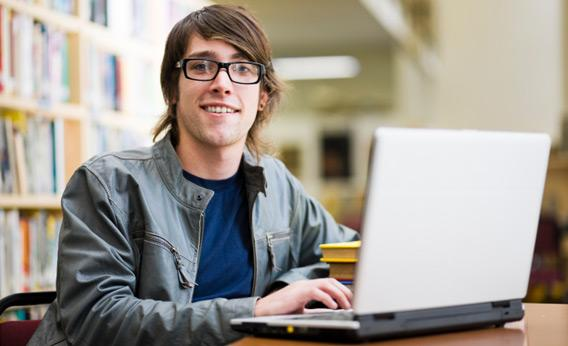
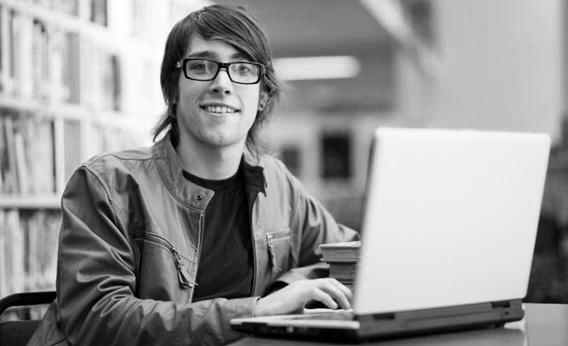
JL: updated btn-primary color to Harpuun navy blue, updated client and starter images

diff --git a/app/assets/stylesheets/bootstrap.css b/app/assets/stylesheets/bootstrap.css
@@ -939,7 +939,7 @@ legend {
   margin-bottom: 20px;
   font-size: 21px;
   line-height: 40px;
-  color: #1B315E;
+  color: #333333;
   border: 0;
   border-bottom: 1px solid #e5e5e5;
 }
@@ -3215,13 +3215,13 @@ input[type="button"].btn-block {
 .btn-primary {
   color: #ffffff;
   text-shadow: 0 -1px 0 rgba(0, 0, 0, 0.25);
-  background-color: #006dcc;
+  background-color: #1B315E;
   *background-color: #0044cc;
-  background-image: -moz-linear-gradient(top, #0088cc, #0044cc);
-  background-image: -webkit-gradient(linear, 0 0, 0 100%, from(#0088cc), to(#0044cc));
-  background-image: -webkit-linear-gradient(top, #0088cc, #0044cc);
-  background-image: -o-linear-gradient(top, #0088cc, #0044cc);
-  background-image: linear-gradient(to bottom, #0088cc, #0044cc);
+  background-image: -moz-linear-gradient(top, #193E7F, #1B315E);
+  background-image: -webkit-gradient(linear, 0 0, 0 100%, from(#193E7F), to(#1B315E));
+  background-image: -webkit-linear-gradient(top, #193E7F, #1B315E);
+  background-image: -o-linear-gradient(top, #193E7F, #1B315E);
+  background-image: linear-gradient(to bottom, #193E7F, #1B315E);
   background-repeat: repeat-x;
   border-color: #0044cc #0044cc #002a80;
   border-color: rgba(0, 0, 0, 0.1) rgba(0, 0, 0, 0.1) rgba(0, 0, 0, 0.25);
@@ -3235,7 +3235,7 @@ input[type="button"].btn-block {
 .btn-primary.disabled,
 .btn-primary[disabled] {
   color: #ffffff;
-  background-color: #0044cc;
+  background-color: #1B315E;
   *background-color: #003bb3;
 }
 

diff --git a/app/assets/stylesheets/application.css b/app/assets/stylesheets/application.css
@@ -19,17 +19,6 @@
 	padding-left: 3%;
 }
 
-.greeting {
-	padding: 31px 15px 0px;
-}
-
-/*.wrapper {
-	min-height: 100%;
-	height: auto !important;
-	height: 100%;
-	margin: 0 auto -.25em;
-}*/
-
 .footstick {
     color: white;
     background: #1B315E;
@@ -57,3 +46,10 @@
 	font-weight: 700;
 	width: 100%;
 }
+
+/*.wrapper {
+	min-height: 100%;
+	height: auto !important;
+	height: 100%;
+	margin: 0 auto -.25em;
+}*/
